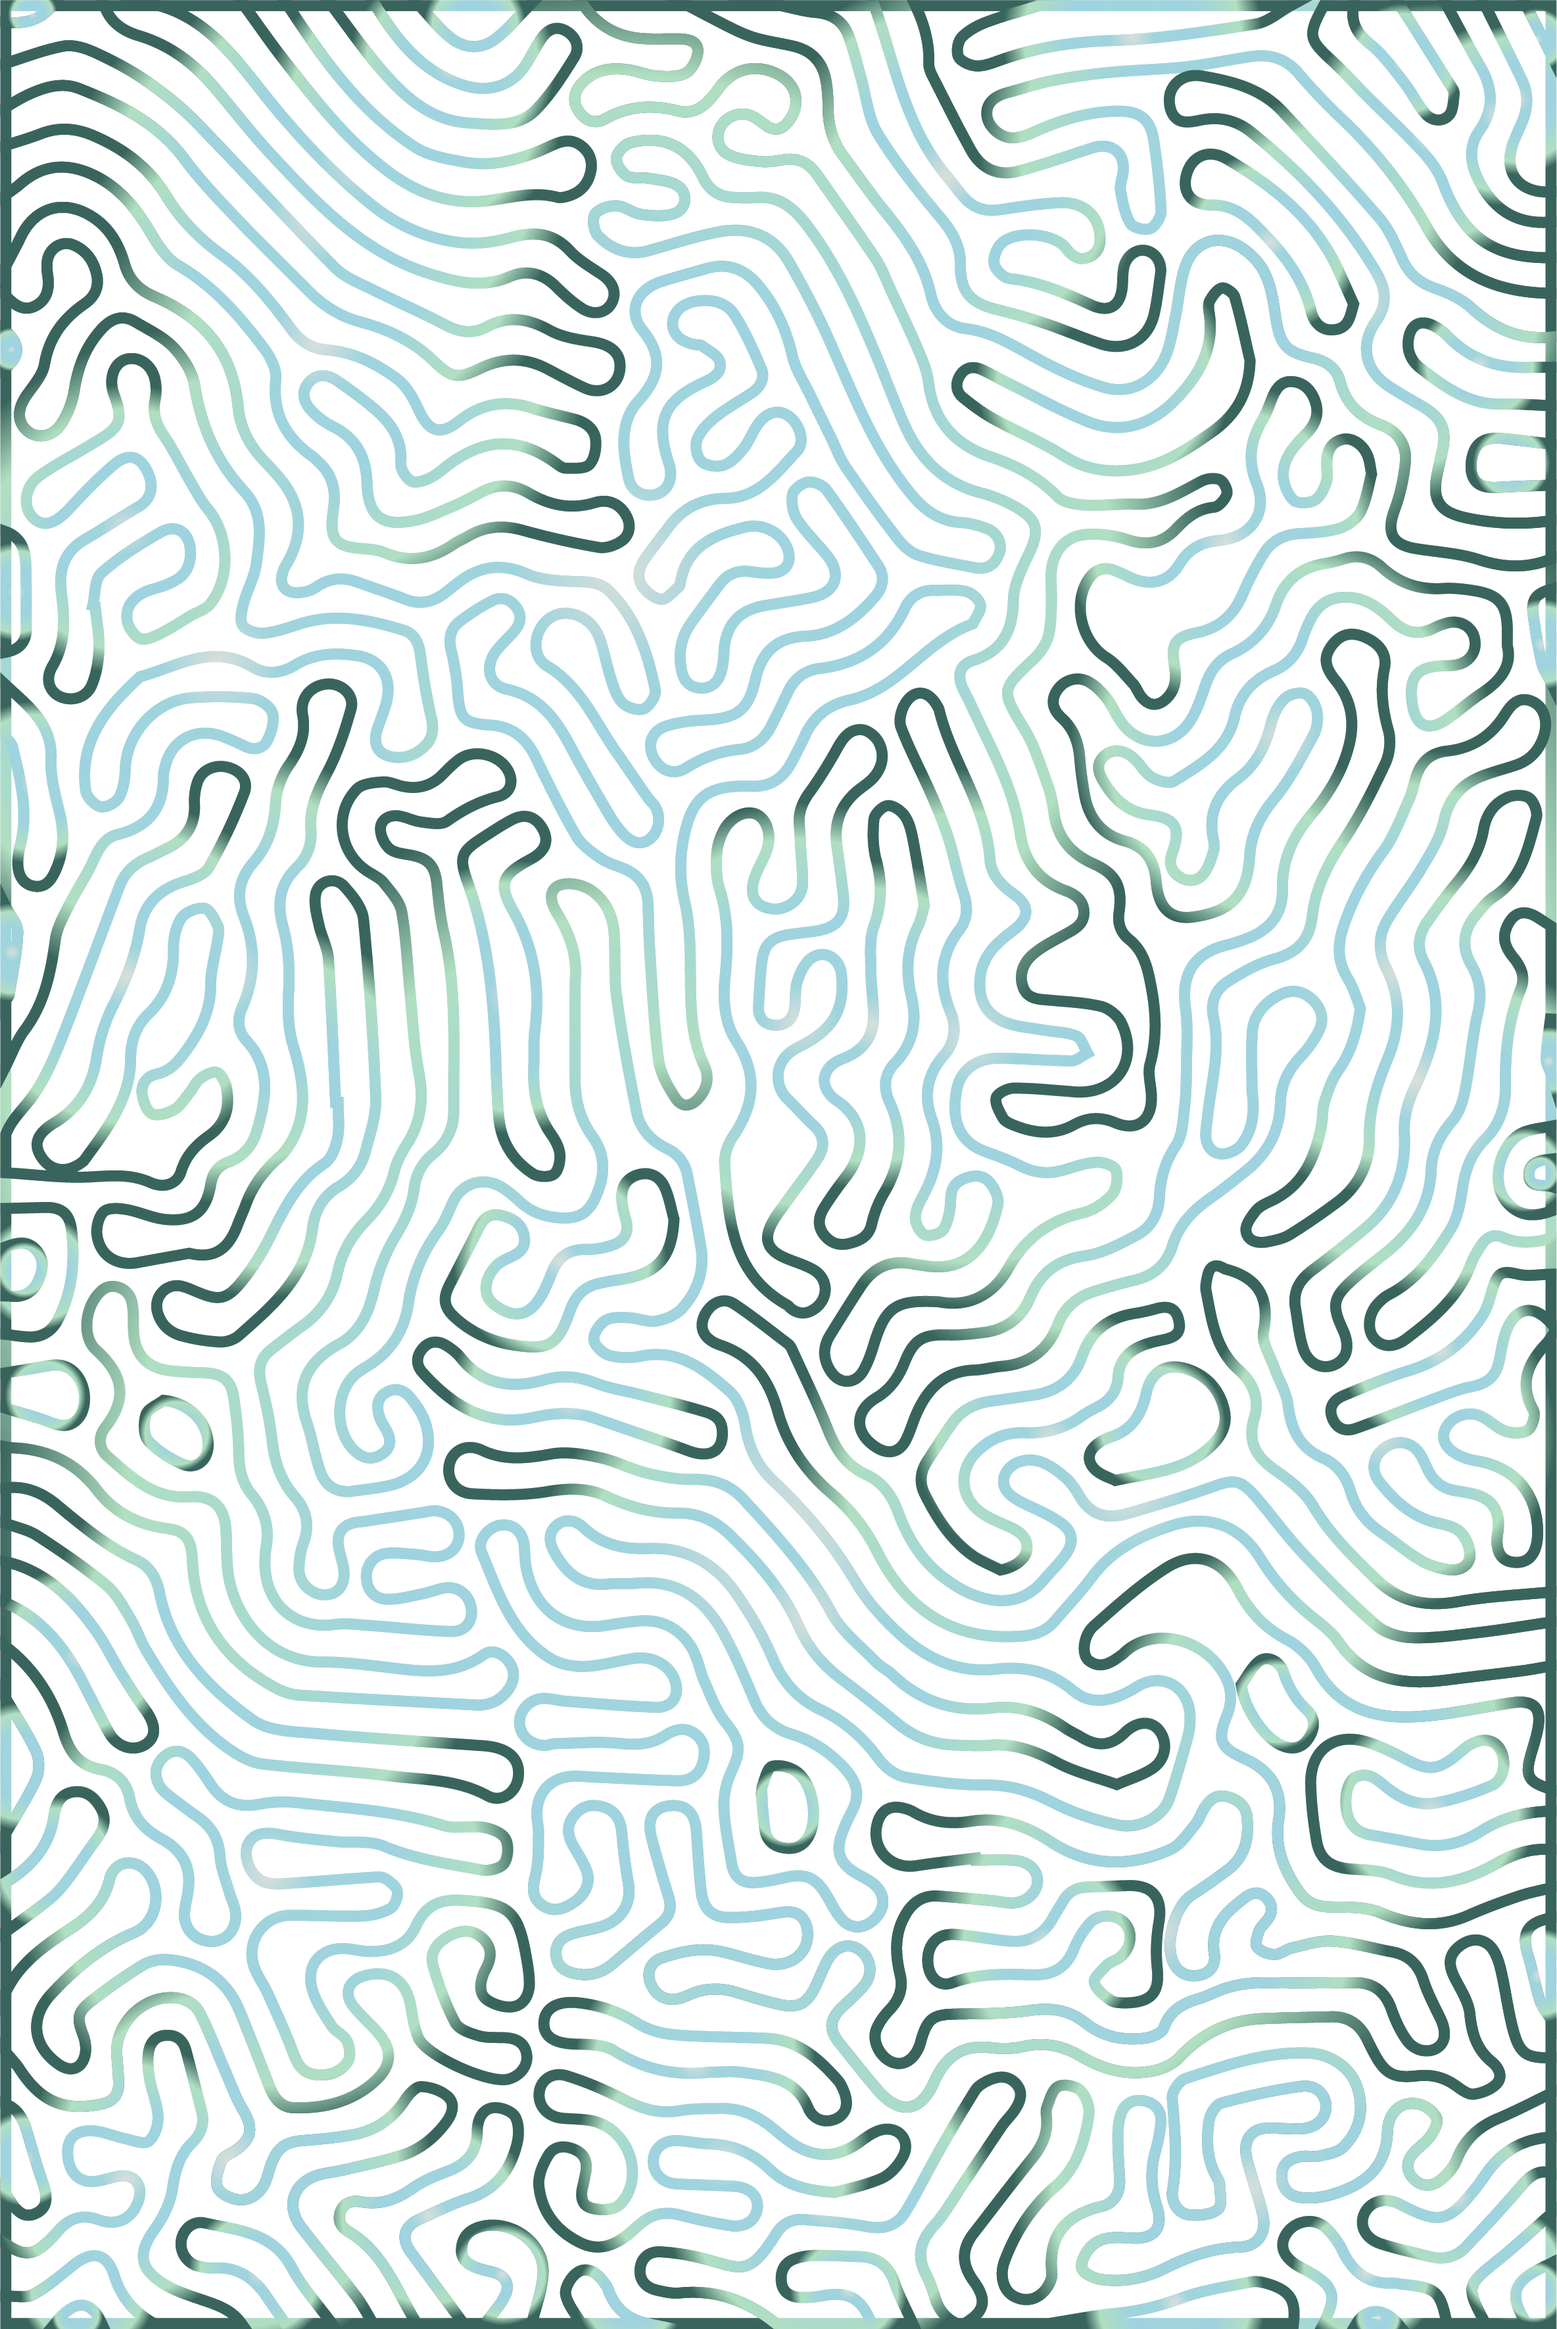
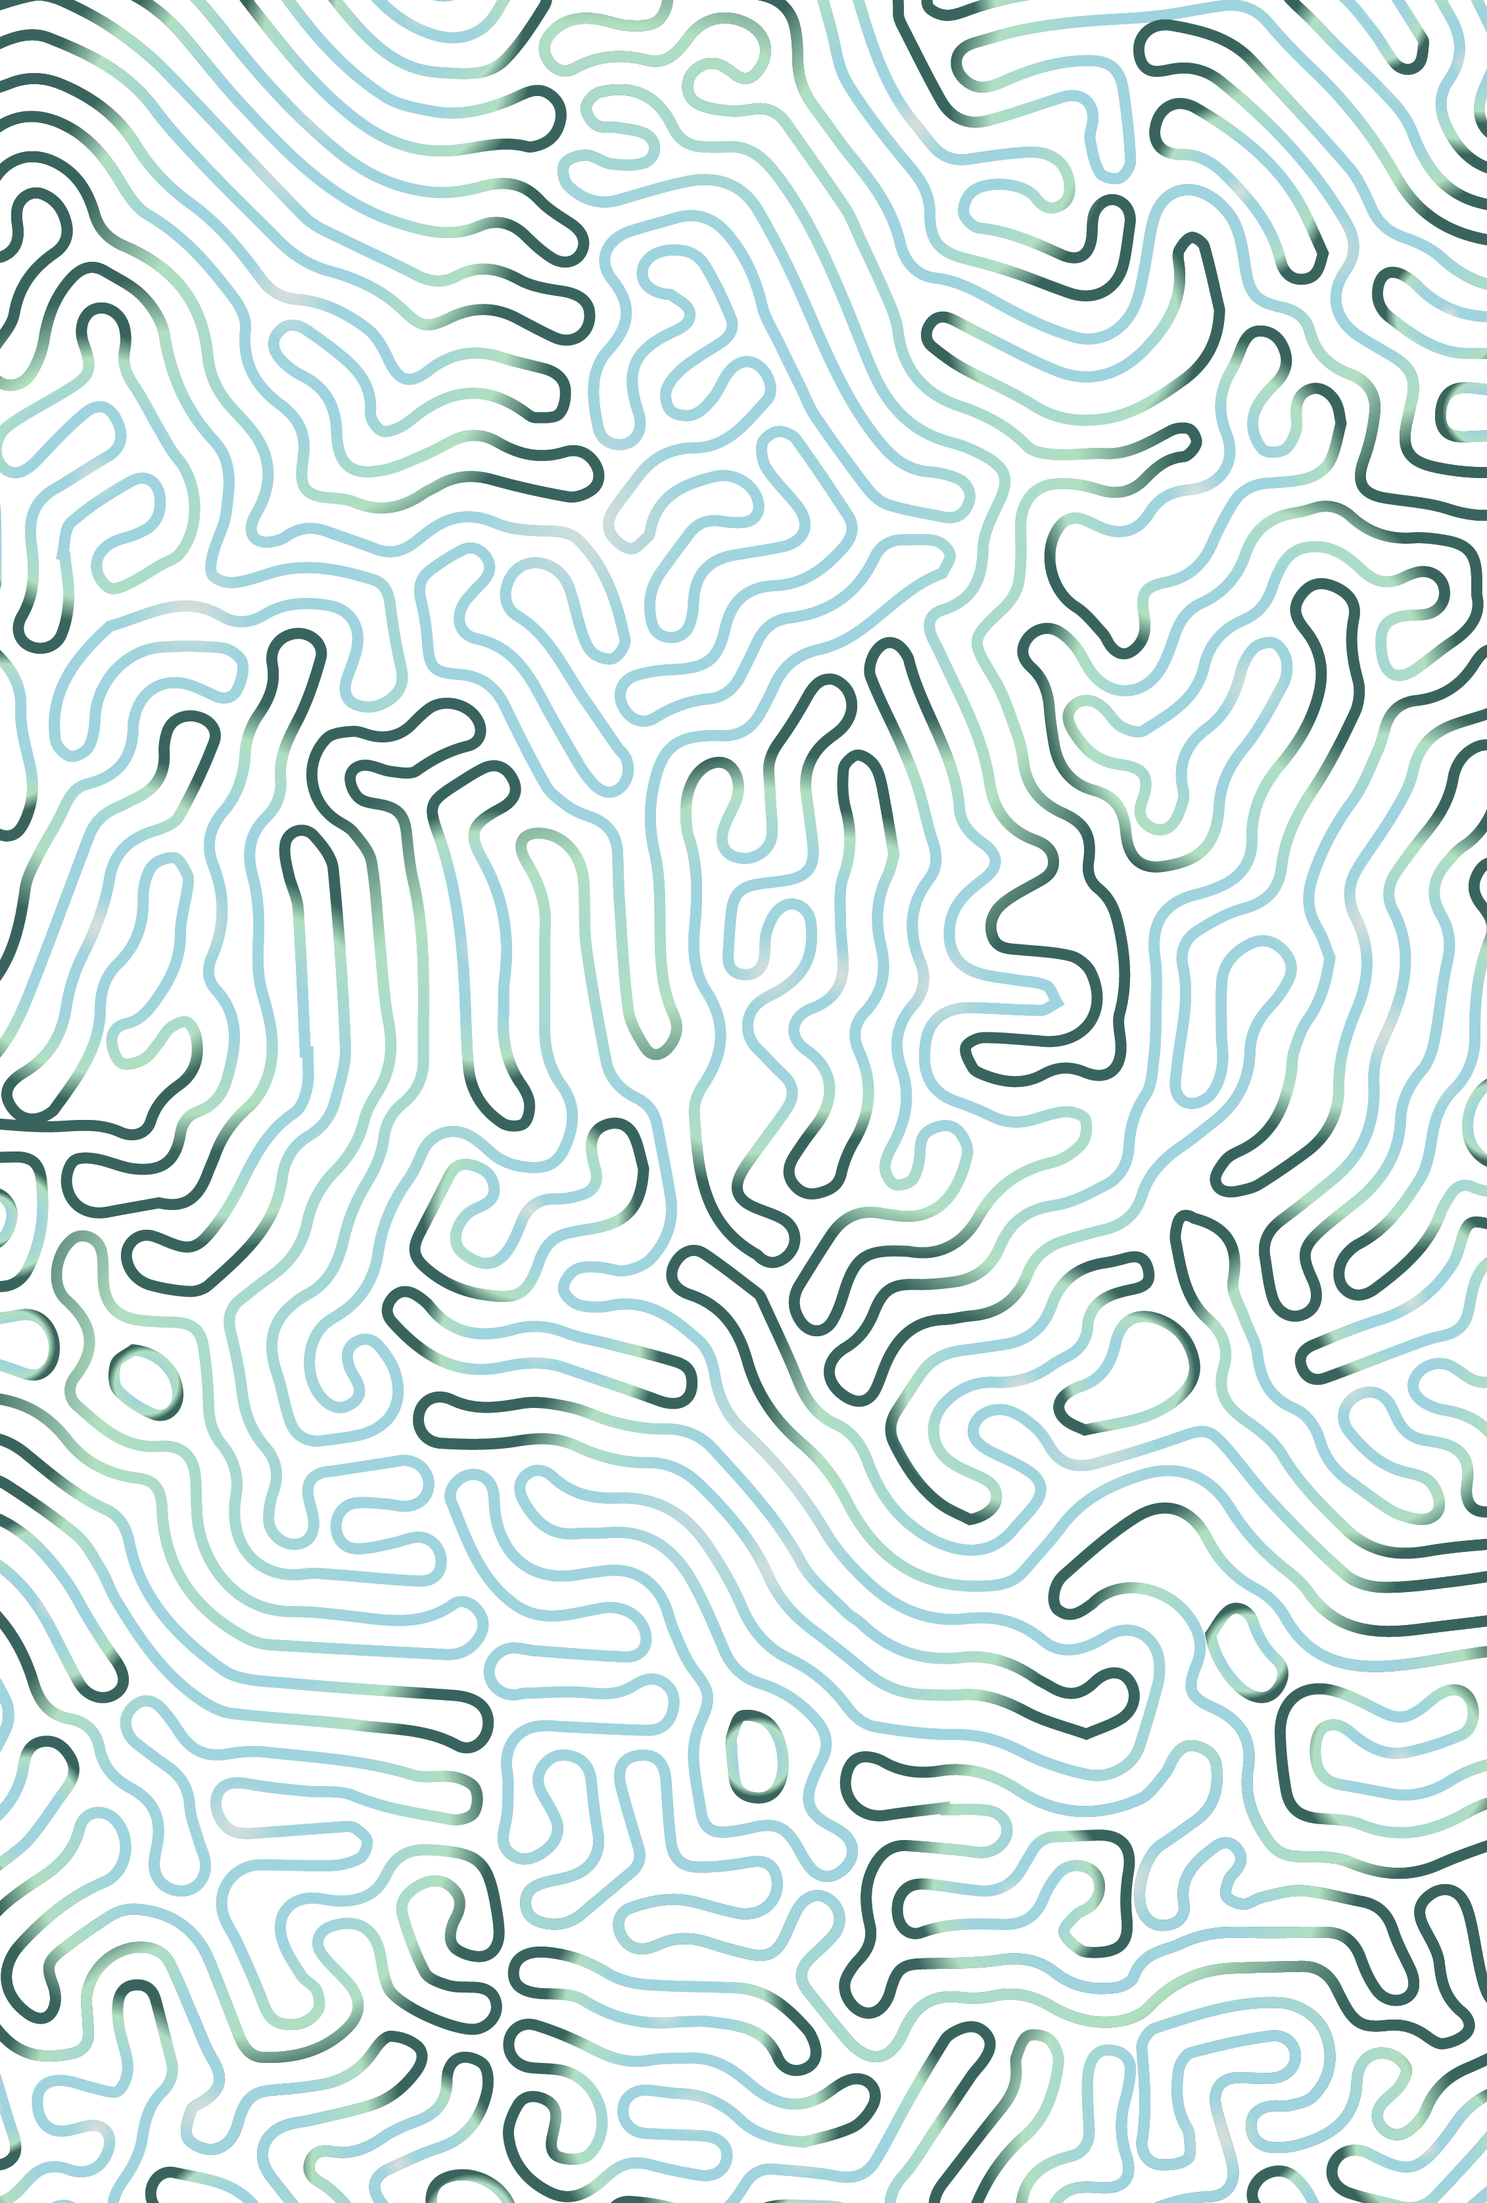
show pdf files

diff --git a/templates/dashboard.html b/templates/dashboard.html
@@ -1,11 +1,10 @@
-{% extends "base.html" %}
-
-{% block title %}Dashboard{% endblock %}
+{% extends 'base.html' %}
 
 {% block content %}
 <div class="container">
     <h1 class="my-4">Dashboard</h1>
-    <h2>Upload a new article</h2>
+    
+    <h2>Upload a New Article</h2>
     <form method="POST" enctype="multipart/form-data">
         {{ form.hidden_tag() }}
         <div class="form-group">
@@ -16,19 +15,20 @@
             {{ form.file.label(class="form-label") }}
             {{ form.file(class="form-control-file") }}
         </div>
-        <button type="submit" class="btn btn-success">Upload</button>
+        <button type="submit" class="btn btn-primary">Upload</button>
     </form>
-
+    
     <h2 class="mt-4">Your Articles</h2>
     <ul class="list-group">
         {% for article in articles %}
         <li class="list-group-item d-flex justify-content-between align-items-center">
-            {{ article['title'] }}
-            <div>
-                <span class="badge badge-primary badge-pill">{{ article['votes'] }} votes</span>
-                <span>{{ article['emoji_votes'] }}</span>
-            </div>
+            <a href="{{ url_for('static', filename=article.file_path.replace('static/', '')) }}" target="_blank">{{ article.title }}</a>
+            <span>
+                {{ article.votes }} votes
+                <a href="{{ url_for('vote', article_id=article.id) }}" class="btn btn-outline-primary btn-sm ml-2">Vote {{ current_user.emoji }}</a>
+            </span>
         </li>
         {% endfor %}
     </ul>
+</div>
 {% endblock %}

diff --git a/app.py b/app.py
@@ -124,13 +124,10 @@ def dashboard():
     form = UploadForm()
     if form.validate_on_submit():
         file = form.file.data
-        upload_folder = app.config['UPLOAD_FOLDER']
-
-        # Check if the directory exists; if not, create it
-        if not os.path.exists(upload_folder):
-            os.makedirs(upload_folder)
-
-        file_path = os.path.join(upload_folder, file.filename)
+        file_path = os.path.join(app.config['UPLOAD_FOLDER'], file.filename)
+        
+        # Save file to the server
+        os.makedirs(app.config['UPLOAD_FOLDER'], exist_ok=True)
         file.save(file_path)
 
         article_data = {
@@ -155,7 +152,7 @@ def vote(article_id):
     article = article_ref.get()
     if article.exists:
         article_data = article.to_dict()
-        if current_user.emoji not in article_data['emoji_votes']:
+        if current_user.emoji not in article_data.get('emoji_votes', ''):
             article_data['votes'] += 1
             article_data['emoji_votes'] += current_user.emoji
             article_ref.update(article_data)
@@ -164,7 +161,7 @@ def vote(article_id):
             flash('You have already voted for this article!')
     else:
         flash('Article not found.')
-    return redirect(url_for('index'))
+    return redirect(url_for('dashboard'))
 
 @app.route('/logout')
 @login_required
